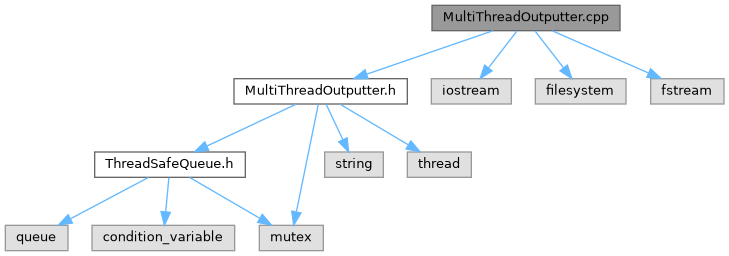
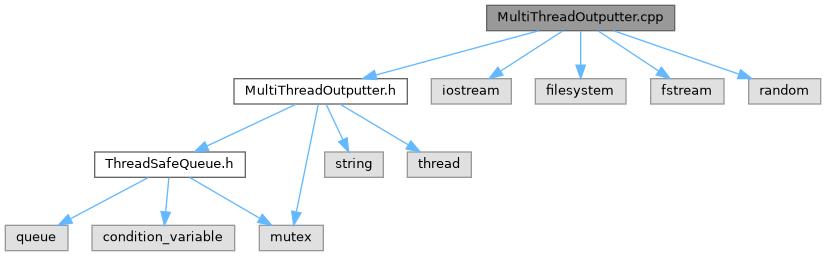
deploy: 3b0049eed1d7b2ef8a0cbbbb64a22da6efc01ec8

diff --git a/MultiThreadOutputter_8h_source.html b/MultiThreadOutputter_8h_source.html
@@ -141,10 +141,10 @@ $(document).ready(function(){initNavTree('MultiThreadOutputter_8h_source.html','
 <div class="ttc" id="aclassMultiThreadOutputter_html_a46205e510e8828251655507a18c444f8"><div class="ttname"><a href="classMultiThreadOutputter.html#a46205e510e8828251655507a18c444f8">MultiThreadOutputter::MultiThreadOutputter</a></div><div class="ttdeci">MultiThreadOutputter(const MultiThreadOutputter &amp;)=delete</div></div>
 <div class="ttc" id="aclassMultiThreadOutputter_html_a4f95ffc456ac8b002167b6252565d4e6"><div class="ttname"><a href="classMultiThreadOutputter.html#a4f95ffc456ac8b002167b6252565d4e6">MultiThreadOutputter::operator=</a></div><div class="ttdeci">MultiThreadOutputter &amp; operator=(const MultiThreadOutputter &amp;)=delete</div></div>
 <div class="ttc" id="aclassMultiThreadOutputter_html_a5a69ce5ecebef1d70b4268ef082c72af"><div class="ttname"><a href="classMultiThreadOutputter.html#a5a69ce5ecebef1d70b4268ef082c72af">MultiThreadOutputter::client_count</a></div><div class="ttdeci">std::atomic&lt; int &gt; client_count</div><div class="ttdoc">Количество клиентов (лоя подсчета завершения процесса)</div><div class="ttdef"><b>Definition</b> MultiThreadOutputter.h:27</div></div>
-<div class="ttc" id="aclassMultiThreadOutputter_html_a5acf1680bf9888f8439e2f4632c7e6b8"><div class="ttname"><a href="classMultiThreadOutputter.html#a5acf1680bf9888f8439e2f4632c7e6b8">MultiThreadOutputter::getInstance</a></div><div class="ttdeci">static MultiThreadOutputter &amp; getInstance()</div><div class="ttdef"><b>Definition</b> MultiThreadOutputter.cpp:20</div></div>
+<div class="ttc" id="aclassMultiThreadOutputter_html_a5acf1680bf9888f8439e2f4632c7e6b8"><div class="ttname"><a href="classMultiThreadOutputter.html#a5acf1680bf9888f8439e2f4632c7e6b8">MultiThreadOutputter::getInstance</a></div><div class="ttdeci">static MultiThreadOutputter &amp; getInstance()</div><div class="ttdef"><b>Definition</b> MultiThreadOutputter.cpp:21</div></div>
 <div class="ttc" id="aclassMultiThreadOutputter_html_a8cbfadef4017379fd435d4980ac7b1a3"><div class="ttname"><a href="classMultiThreadOutputter.html#a8cbfadef4017379fd435d4980ac7b1a3">MultiThreadOutputter::file_queue</a></div><div class="ttdeci">ThreadSafeQueue&lt; std::pair&lt; std::vector&lt; std::string &gt;, time_t &gt; &gt; file_queue</div><div class="ttdoc">Очередь записи в файл</div><div class="ttdef"><b>Definition</b> MultiThreadOutputter.h:25</div></div>
-<div class="ttc" id="aclassMultiThreadOutputter_html_a95e4ec19345daca21a541e6ae24dd589"><div class="ttname"><a href="classMultiThreadOutputter.html#a95e4ec19345daca21a541e6ae24dd589">MultiThreadOutputter::waitUntilDone</a></div><div class="ttdeci">void waitUntilDone() const</div><div class="ttdoc">Ожидает завершения работы потоков</div><div class="ttdef"><b>Definition</b> MultiThreadOutputter.cpp:76</div></div>
-<div class="ttc" id="aclassMultiThreadOutputter_html_ad62389ed89ea9e9673c72177970fd192"><div class="ttname"><a href="classMultiThreadOutputter.html#ad62389ed89ea9e9673c72177970fd192">MultiThreadOutputter::~MultiThreadOutputter</a></div><div class="ttdeci">~MultiThreadOutputter()</div><div class="ttdef"><b>Definition</b> MultiThreadOutputter.cpp:10</div></div>
+<div class="ttc" id="aclassMultiThreadOutputter_html_a95e4ec19345daca21a541e6ae24dd589"><div class="ttname"><a href="classMultiThreadOutputter.html#a95e4ec19345daca21a541e6ae24dd589">MultiThreadOutputter::waitUntilDone</a></div><div class="ttdeci">void waitUntilDone() const</div><div class="ttdoc">Ожидает завершения работы потоков</div><div class="ttdef"><b>Definition</b> MultiThreadOutputter.cpp:80</div></div>
+<div class="ttc" id="aclassMultiThreadOutputter_html_ad62389ed89ea9e9673c72177970fd192"><div class="ttname"><a href="classMultiThreadOutputter.html#ad62389ed89ea9e9673c72177970fd192">MultiThreadOutputter::~MultiThreadOutputter</a></div><div class="ttdeci">~MultiThreadOutputter()</div><div class="ttdef"><b>Definition</b> MultiThreadOutputter.cpp:11</div></div>
 <div class="ttc" id="aclassMultiThreadOutputter_html_aee964e7f528a39b71dbbf4efb3f52c85"><div class="ttname"><a href="classMultiThreadOutputter.html#aee964e7f528a39b71dbbf4efb3f52c85">MultiThreadOutputter::running</a></div><div class="ttdeci">std::atomic&lt; bool &gt; running</div><div class="ttdoc">Флаг для контроля работы потоков</div><div class="ttdef"><b>Definition</b> MultiThreadOutputter.h:28</div></div>
 <div class="ttc" id="aclassThreadSafeQueue_html"><div class="ttname"><a href="classThreadSafeQueue.html">ThreadSafeQueue</a></div><div class="ttdef"><b>Definition</b> ThreadSafeQueue.h:14</div></div>
 </div><!-- fragment --></div><!-- contents -->

diff --git a/MultiThreadOutputter_8cpp.html b/MultiThreadOutputter_8cpp.html
@@ -105,20 +105,23 @@ $(document).ready(function(){initNavTree('MultiThreadOutputter_8cpp.html',''); i
 <code>#include &lt;iostream&gt;</code><br />
 <code>#include &lt;filesystem&gt;</code><br />
 <code>#include &lt;fstream&gt;</code><br />
+<code>#include &lt;random&gt;</code><br />
 </div><div class="textblock"><div class="dynheader">
 Include dependency graph for MultiThreadOutputter.cpp:</div>
 <div class="dyncontent">
 <div class="center"><img src="MultiThreadOutputter_8cpp__incl.png" border="0" usemap="#aMultiThreadOutputter_8cpp" alt=""/></div>
 <map name="aMultiThreadOutputter_8cpp" id="aMultiThreadOutputter_8cpp">
-<area shape="rect" title="Реализация класса MultiThreadOutputter." alt="" coords="432,5,620,31"/>
+<area shape="rect" title="Реализация класса MultiThreadOutputter." alt="" coords="487,5,675,31"/>
 <area shape="rect" href="MultiThreadOutputter_8h.html" title=" " alt="" coords="234,79,407,104"/>
-<area shape="poly" title=" " alt="" coords="494,33,368,77,366,72,492,28"/>
+<area shape="poly" title=" " alt="" coords="540,33,377,78,375,72,538,28"/>
 <area shape="rect" title=" " alt="" coords="431,79,511,104"/>
-<area shape="poly" title=" " alt="" coords="519,33,491,69,486,66,515,29"/>
+<area shape="poly" title=" " alt="" coords="565,33,502,73,499,69,562,28"/>
 <area shape="rect" title=" " alt="" coords="535,79,626,104"/>
-<area shape="poly" title=" " alt="" coords="537,29,566,66,561,69,533,33"/>
+<area shape="poly" title=" " alt="" coords="583,31,583,65,578,65,578,31"/>
 <area shape="rect" title=" " alt="" coords="651,79,724,104"/>
-<area shape="poly" title=" " alt="" coords="553,28,650,71,647,75,551,33"/>
+<area shape="poly" title=" " alt="" coords="599,28,660,69,657,73,596,33"/>
+<area shape="rect" title=" " alt="" coords="749,79,821,104"/>
+<area shape="poly" title=" " alt="" coords="614,28,740,72,738,77,613,33"/>
 <area shape="rect" href="ThreadSafeQueue_8h.html" title="Потокобезопасная очередь" alt="" coords="95,152,245,177"/>
 <area shape="poly" title=" " alt="" coords="298,106,208,148,206,144,295,102"/>
 <area shape="rect" title=" " alt="" coords="259,225,323,251"/>
